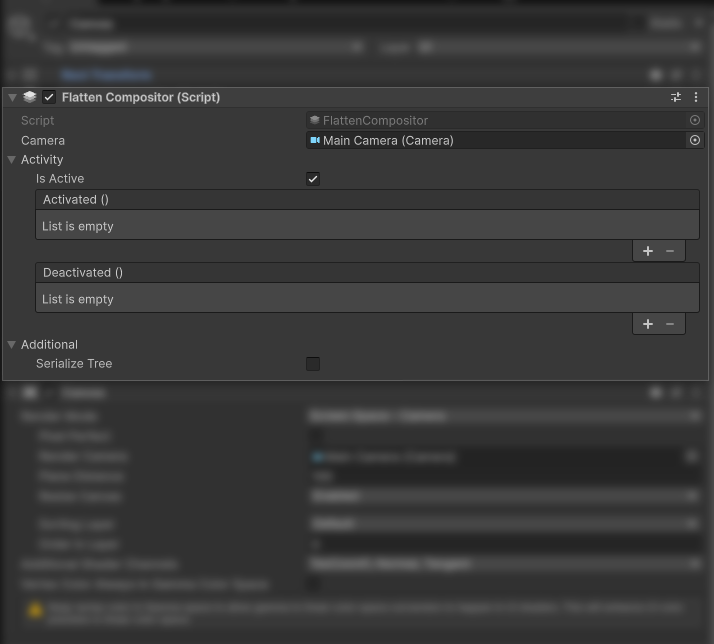
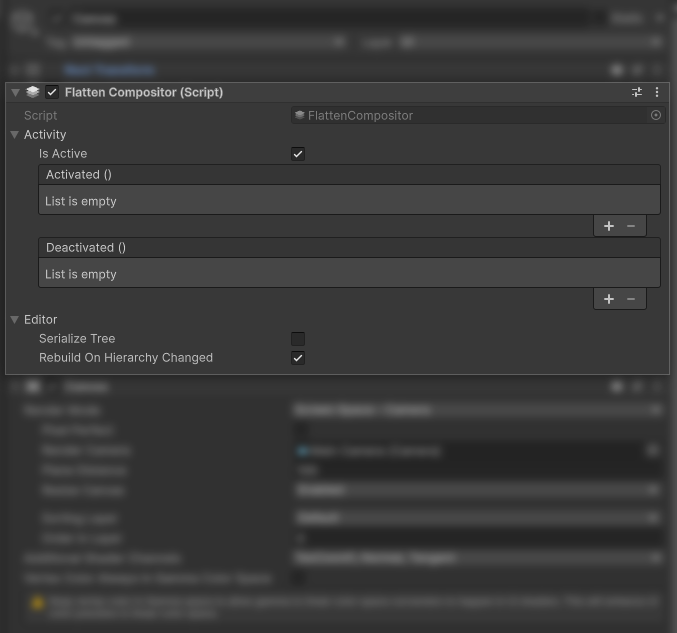
Refactor: align `FlattenCompositor` section

diff --git a/README.md b/README.md
@@ -15,7 +15,7 @@ A non-intrusive UGUI compositing and branch-baking system for Unity (URP). Flatt
 
 ## Installation
 
-1. Download **FlattenUI** from the **Unity Asset Store**.
+1. Download and purchase **FlattenUI** from the [Unity Asset Store](https://assetstore.unity.com/packages/slug/430314) (or via short link [u3d.as/4jzo](https://u3d.as/4jzo)).
 2. Open `Window > Package Manager`, switch to **My Assets**, and click **Import**.
 
 ## Quick Start
@@ -31,14 +31,14 @@ A non-intrusive UGUI compositing and branch-baking system for Unity (URP). Flatt
 
 <img src="./Images/inspector_compositor.png" alt="FlattenCompositor Inspector" width="500" />
 
-Attach this component to your **Root Canvas**. It manages the internal node hierarchy, processes queued rebuilds, and executes the URP offscreen baking pass in `LateUpdate`.
+Attach this component to your **Root Canvas**. It manages the internal node hierarchy, processes queued rebuilds, and executes the URP offscreen baking pass during `Canvas.preWillRenderCanvases`. It automatically resolves the rendering camera from the Canvas world camera or falls back to `Camera.main`.
 
-- **Camera:** The camera used to execute URP render requests. If left empty, the compositor automatically falls back to the camera attached to the `Canvas` (`Canvas.worldCamera`) or `Camera.main`.
 - **Activity:**
   - **Is Active:** Globally enables or disables flattening for all managed branches under this Canvas.
   - **Activated / Deactivated:** UnityEvents invoked when the compositor is enabled or disabled.
-- **Additional:**
-  - **Serialize Tree:** *(Editor Only)* Preserves the internal node tree across script recompilations and domain reloads.
+- **Additional (Editor Only):**
+  - **Serialize Tree:** Preserves the internal node tree across script recompilations and domain reloads.
+  - **Rebuild On Hierarchy Changed:** Automatically schedules a node tree rebuild in Edit Mode whenever the scene hierarchy changes.
 
 ### 2. FlattenGraphic (UI Branch Baker)
 
@@ -142,9 +142,17 @@ public class StickerCardView : MonoBehaviour
 
 | Member | Description |
 | :--- | :--- |
+| `void Rebuild()` | Schedules a deferred full tree rebuild for the compositor. |
 | `void Rebuild(Transform transform)` | Queues a deferred subtree rebuild for the specified `Transform` in the compositor tree. |
 | `void Rebuild(FlattenGraphic graphic)` | Queues a deferred subtree rebuild for the specified `FlattenGraphic`. |
+| `void RebuildImmediate()` | Immediately rebuilds the entire node tree managed by the compositor. |
 | `void RebuildImmediate(Transform transform)` | Immediately rebuilds the subtree of the specified `Transform` in the compositor tree. |
+
+### `FlattenRenderer`
+
+| Member | Description |
+| :--- | :--- |
+| `static bool IsRendering { get; }` | Returns `true` while an offscreen flatten render pass is actively in progress. Useful for ignoring state changes or layout callbacks triggered during baking. |
 
 ### `RawImageUVController`
 
